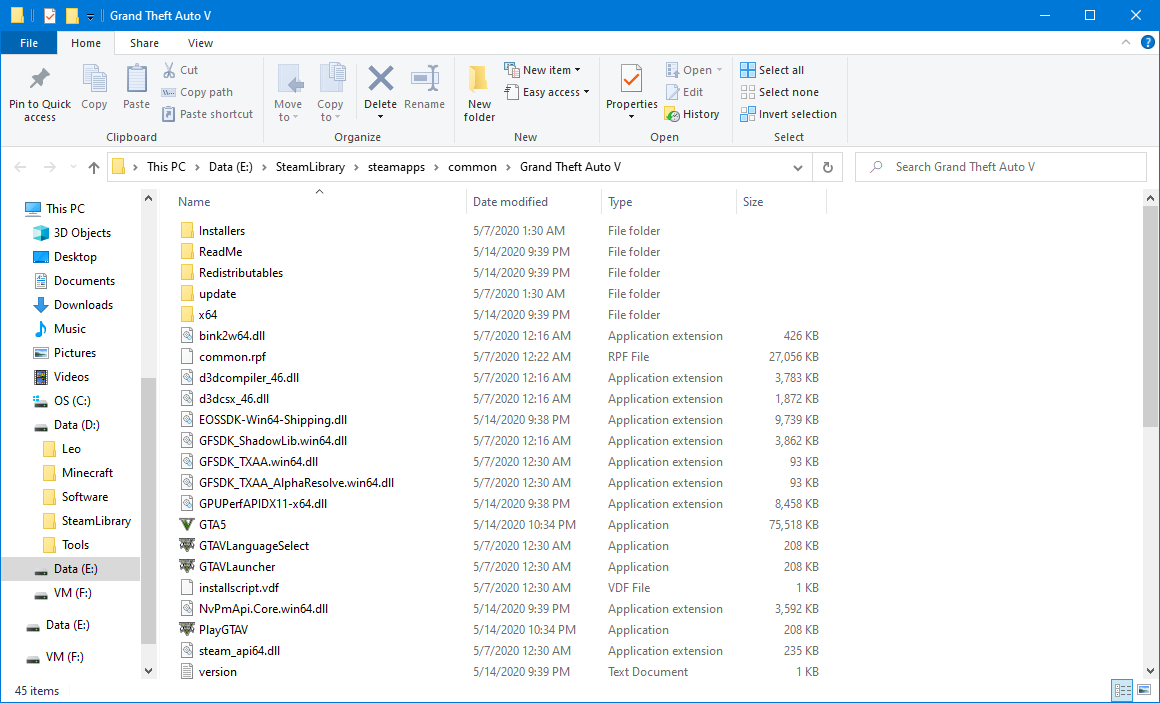
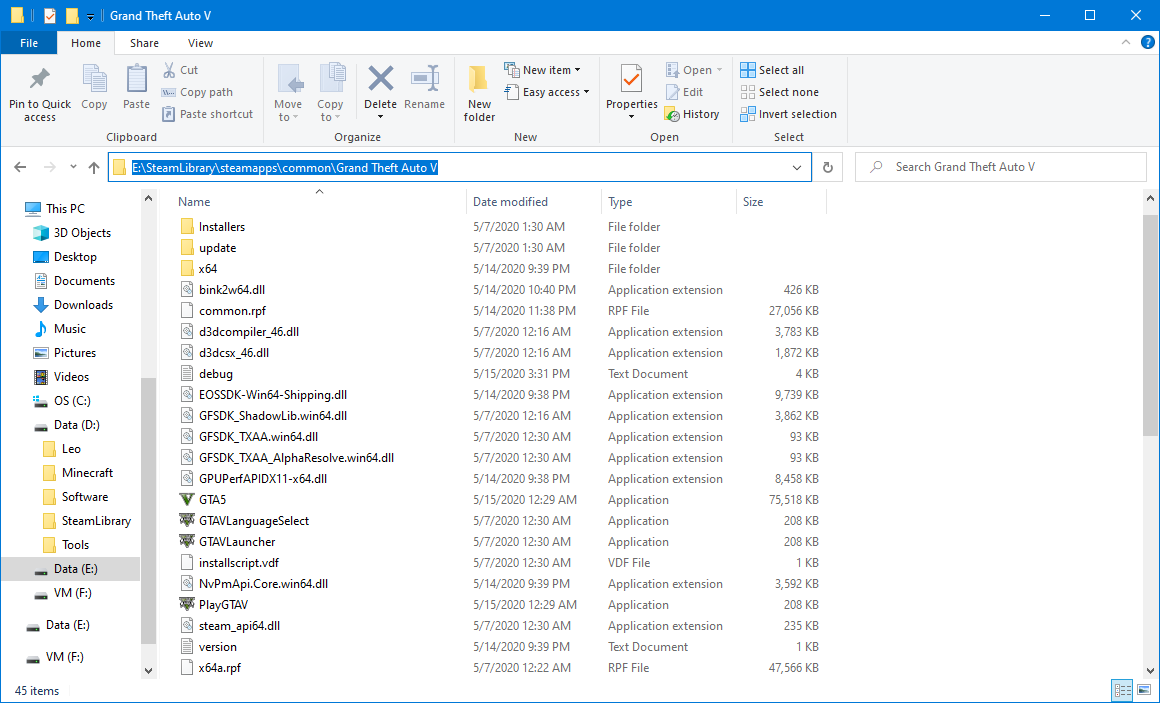
Update post "Share GTA V Game Files Between Steam and Epic Games"

diff --git a/collections/_posts/en/2020-05-15-gta-v-steam-epic-games.md b/collections/_posts/en/2020-05-15-gta-v-steam-epic-games.md
@@ -11,7 +11,7 @@ to get another free copy so they could have two or more GTA Online accounts.
 
 It appears that if you have already installed GTA V via Steam, you still need
 to download a full copy of the game files via Epic Games. However, by doing
-some tricks, you can let Epic Games and Steam share the same set of GTA V game
+some tricks, you can let Steam and Epic Games share the same set of GTA V game
 files to avoid downloading the game again and thus save disk space. We will use
 the `MKLINK` command on Windows, which is not well-known, to create a link to
 the existing game files. The link works as if the linked files and folders are
@@ -50,7 +50,8 @@ Steam's copy of GTA V files under Epic Games' installation path.
 
 6.  Find out where Steam stored GTA V game files. Open up game properties for
     GTA V in Steam, click on "Browse Local Files" under the "Local Files" tab,
-    and remember the path shown in the file explorer.
+    and remember the path shown in the file explorer. You may click on the
+    address bar to copy the full path.
 
     ![]({{ img_path }}/06-1-steam-game-properties.png)
 

diff --git a/collections/_posts/zh/2020-05-15-gta-v-steam-epic-games.md b/collections/_posts/zh/2020-05-15-gta-v-steam-epic-games.md
@@ -34,7 +34,7 @@ lang: zh
 
     ![]({{ img_path }}/05-delete-epic-games-gtav-folder.png)
 
-6.  找出 Steam 里的 GTA V 安装路径。在 Steam 里查看 GTA V 的游戏属性，在“本地文件”中选择“浏览本地文件”，然后记下弹出的文件资源管理器里显示的路径。
+6.  找出 Steam 里的 GTA V 安装路径。在 Steam 里查看 GTA V 的游戏属性，在“本地文件”中选择“浏览本地文件”，然后记下弹出的文件资源管理器里显示的路径。点一下地址栏，就可以将完整路径复制出来。
 
     ![]({{ img_path }}/06-1-steam-game-properties.png)
 
